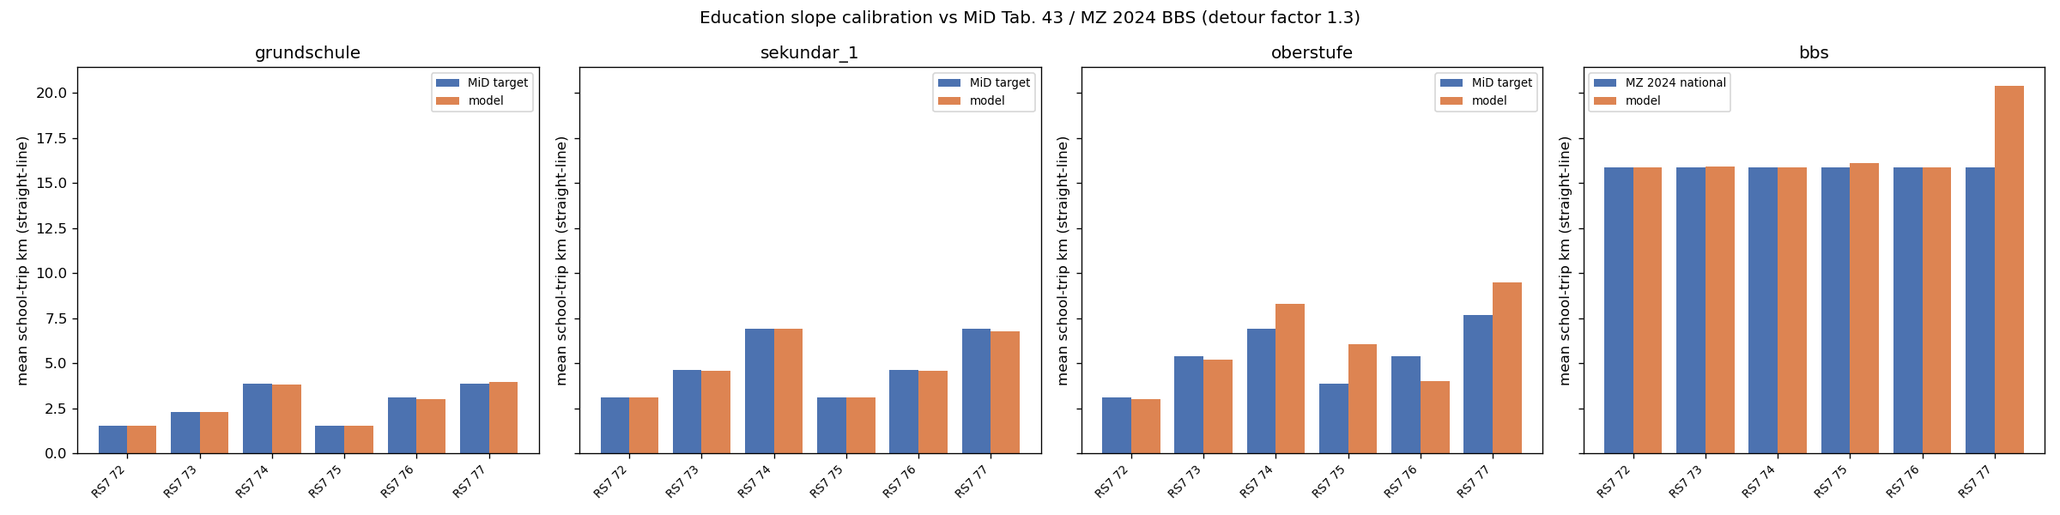
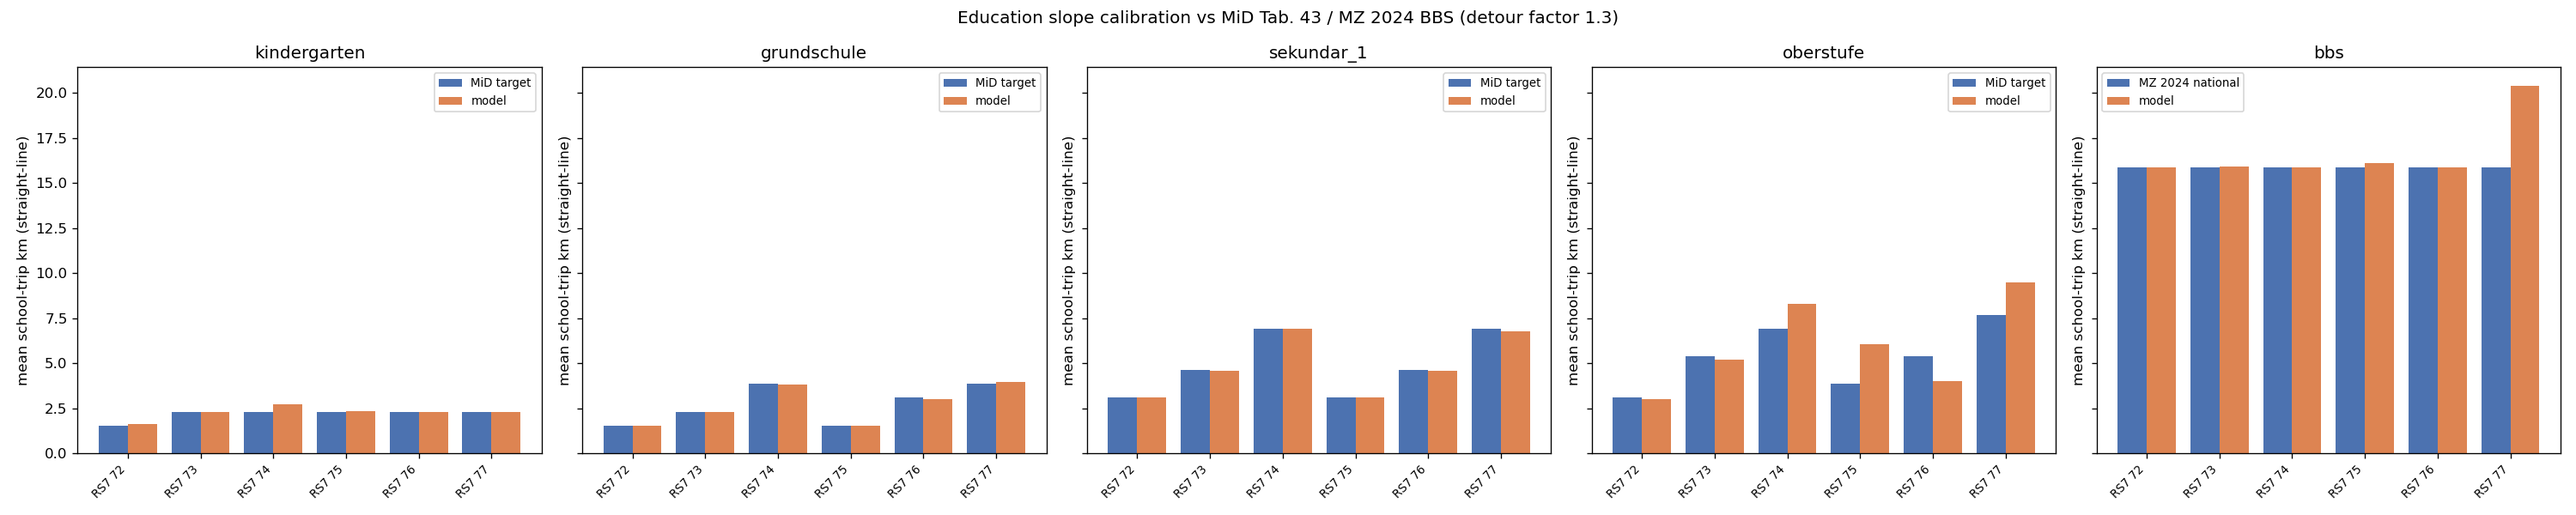
docs(education-kita): refresh calibration evaluation with kindergarten (5 levels)

diff --git a/eqasim-data/data/braunschweig/mid/education_calibration/calibration_summary.md b/eqasim-data/data/braunschweig/mid/education_calibration/calibration_summary.md
@@ -2,40 +2,47 @@
 
 Detour factor (routed -> straight-line): 1.3. Calibrated on the 25% synthesis (cache_bs_25pct); per-pupil slope by home RegioStaR-7, coupled full-level secant.
 
-Levels: grundschule / sekundar_1 / oberstufe use per-RS7 MiD Tab. 43 targets. bbs uses the national Destatis MZ 2024 BBS straight-line mean as a uniform target across all RS7 (rural cells may legitimately exceed it due to school sparsity).
+Levels: kindergarten / grundschule / sekundar_1 / oberstufe use per-RS7 MiD Tab. 43 targets (Tabelle 43, km_0_6 / km_7_10 / km_11_13 / km_14_17). bbs uses the national Destatis MZ 2024 BBS straight-line mean as a uniform target across all RS7 (rural cells may legitimately exceed it due to school sparsity).
 
 ## Results (straight-line mean school-trip km)
 
 ```
-      level  regiostar7  n_pupils  target_km  achieved_mean_km  abs_error_km   slope
-grundschule          72      2956      1.538             1.538         0.000 -1.3354
-grundschule          73      1481      2.308             2.298         0.010 -0.6835
-grundschule          74      1891      3.846             3.791         0.055 -0.4507
-grundschule          75       258      1.538             1.541         0.003 -1.0793
-grundschule          76       203      3.077             3.028         0.049 -0.1248
-grundschule          77       198      3.846             3.934         0.088 -0.2412
- sekundar_1          72      3772      3.077             3.094         0.017 -0.4944
- sekundar_1          73      1949      4.615             4.558         0.057 -0.2383
- sekundar_1          74      2405      6.923             6.931         0.008 -0.4303
- sekundar_1          75       336      3.077             3.082         0.005 -0.5700
- sekundar_1          76       293      4.615             4.595         0.020 -0.1568
- sekundar_1          77       263      6.923             6.769         0.154 -0.1160
-  oberstufe          72       574      3.077             2.993         0.084 -1.5100
-  oberstufe          73       292      5.385             5.181         0.204 -0.7650
-  oberstufe          74       354      6.923             8.272         1.349 -3.0000
-  oberstufe          75        40      3.846             6.063         2.217 -1.2588
-  oberstufe          76        50      5.385             3.994         1.391 -1.2588
-  oberstufe          77        43      7.692             9.470         1.778 -1.2588
-        bbs          72      1264     15.839            15.844         0.005 -0.0350
-        bbs          73       571     15.839            15.896         0.057 -0.0898
-        bbs          74       686     15.839            15.855         0.016 -0.1524
-        bbs          75       110     15.839            16.075         0.236 -0.0666
-        bbs          76       129     15.839            15.849         0.010 -0.1346
-        bbs          77        95     15.839            20.389         4.550 -3.0000
+       level  regiostar7  n_pupils  target_km  achieved_mean_km  abs_error_km   slope
+ grundschule          72      2956      1.538             1.538         0.000 -1.3354
+ grundschule          73      1481      2.308             2.298         0.010 -0.6835
+ grundschule          74      1891      3.846             3.791         0.055 -0.4507
+ grundschule          75       258      1.538             1.541         0.003 -1.0793
+ grundschule          76       203      3.077             3.028         0.049 -0.1248
+ grundschule          77       198      3.846             3.934         0.088 -0.2412
+  sekundar_1          72      3772      3.077             3.094         0.017 -0.4944
+  sekundar_1          73      1949      4.615             4.558         0.057 -0.2383
+  sekundar_1          74      2405      6.923             6.931         0.008 -0.4303
+  sekundar_1          75       336      3.077             3.082         0.005 -0.5700
+  sekundar_1          76       293      4.615             4.595         0.020 -0.1568
+  sekundar_1          77       263      6.923             6.769         0.154 -0.1160
+   oberstufe          72       574      3.077             2.993         0.084 -1.5100
+   oberstufe          73       292      5.385             5.181         0.204 -0.7650
+   oberstufe          74       354      6.923             8.272         1.349 -3.0000
+   oberstufe          75        40      3.846             6.063         2.217 -1.2588
+   oberstufe          76        50      5.385             3.994         1.391 -1.2588
+   oberstufe          77        43      7.692             9.470         1.778 -1.2588
+         bbs          72      1264     15.839            15.844         0.005 -0.0350
+         bbs          73       571     15.839            15.896         0.057 -0.0898
+         bbs          74       686     15.839            15.855         0.016 -0.1524
+         bbs          75       110     15.839            16.075         0.236 -0.0666
+         bbs          76       129     15.839            15.849         0.010 -0.1346
+         bbs          77        95     15.839            20.389         4.550 -3.0000
+kindergarten          72      4166      1.538             1.632         0.094 -3.0000
+kindergarten          73      2063      2.308             2.308         0.000 -2.0251
+kindergarten          74      2661      2.308             2.700         0.392 -3.0000
+kindergarten          75       347      2.308             2.358         0.050 -3.0000
+kindergarten          76       308      2.308             2.305         0.003 -0.5167
+kindergarten          77       254      2.308             2.295         0.013 -2.8138
+  university          -1      9824     15.232            15.411         0.179 -0.1415
 ```
 
 ## Assessment
 
-- Cells within 0.5 km of target: 19 / 24.
-- Cells at the steepest bracket bound (slope = -3.0, school-sparsity floor): 2 (oberstufe/RS7 74, bbs/RS7 77).
+- Cells within 0.5 km of target: 26 / 31.
+- Cells at the steepest bracket bound (slope = -3.0, school-sparsity floor): 5 (oberstufe/RS7 74, bbs/RS7 77, kindergarten/RS7 72, kindergarten/RS7 74, kindergarten/RS7 75).
 - grundschule and sekundar_1 calibrate well. oberstufe rural cells (RS7 74/77) may not reach the MiD target even at the steepest slope: rural upper-secondary schools (Gymnasium/Oberstufe) are sparse. bbs rural cells legitimately exceed the national MZ 2024 mean due to regional school sparsity -- this is expected and consistent with the longer BBS catchment assumption.
